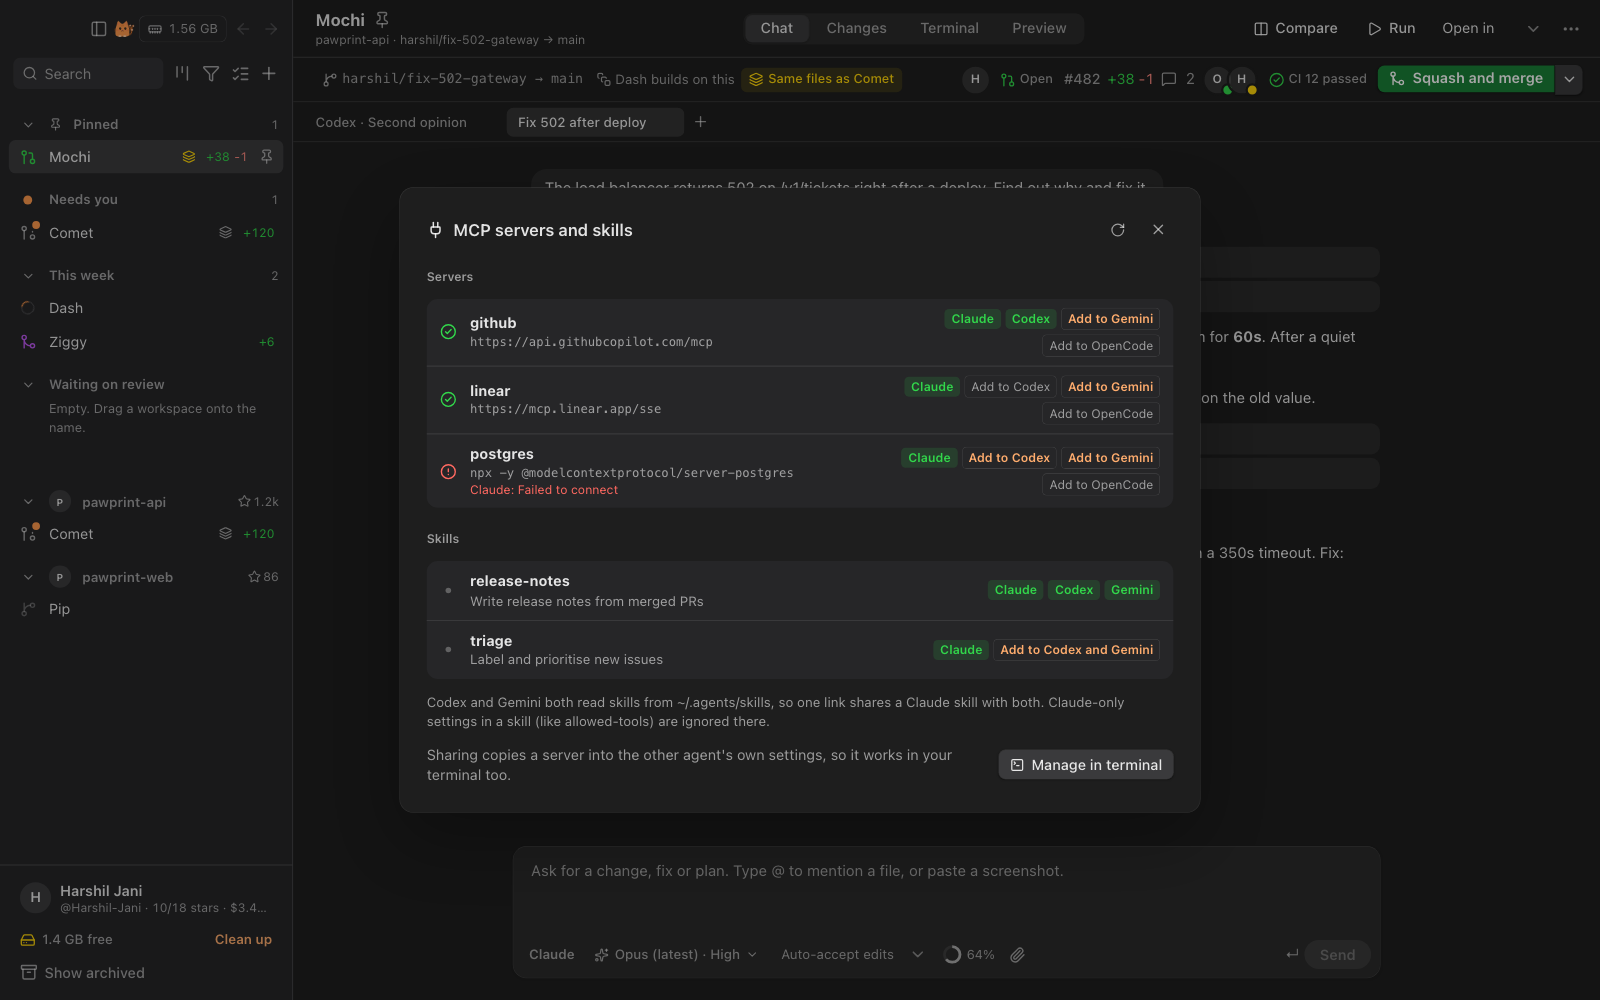
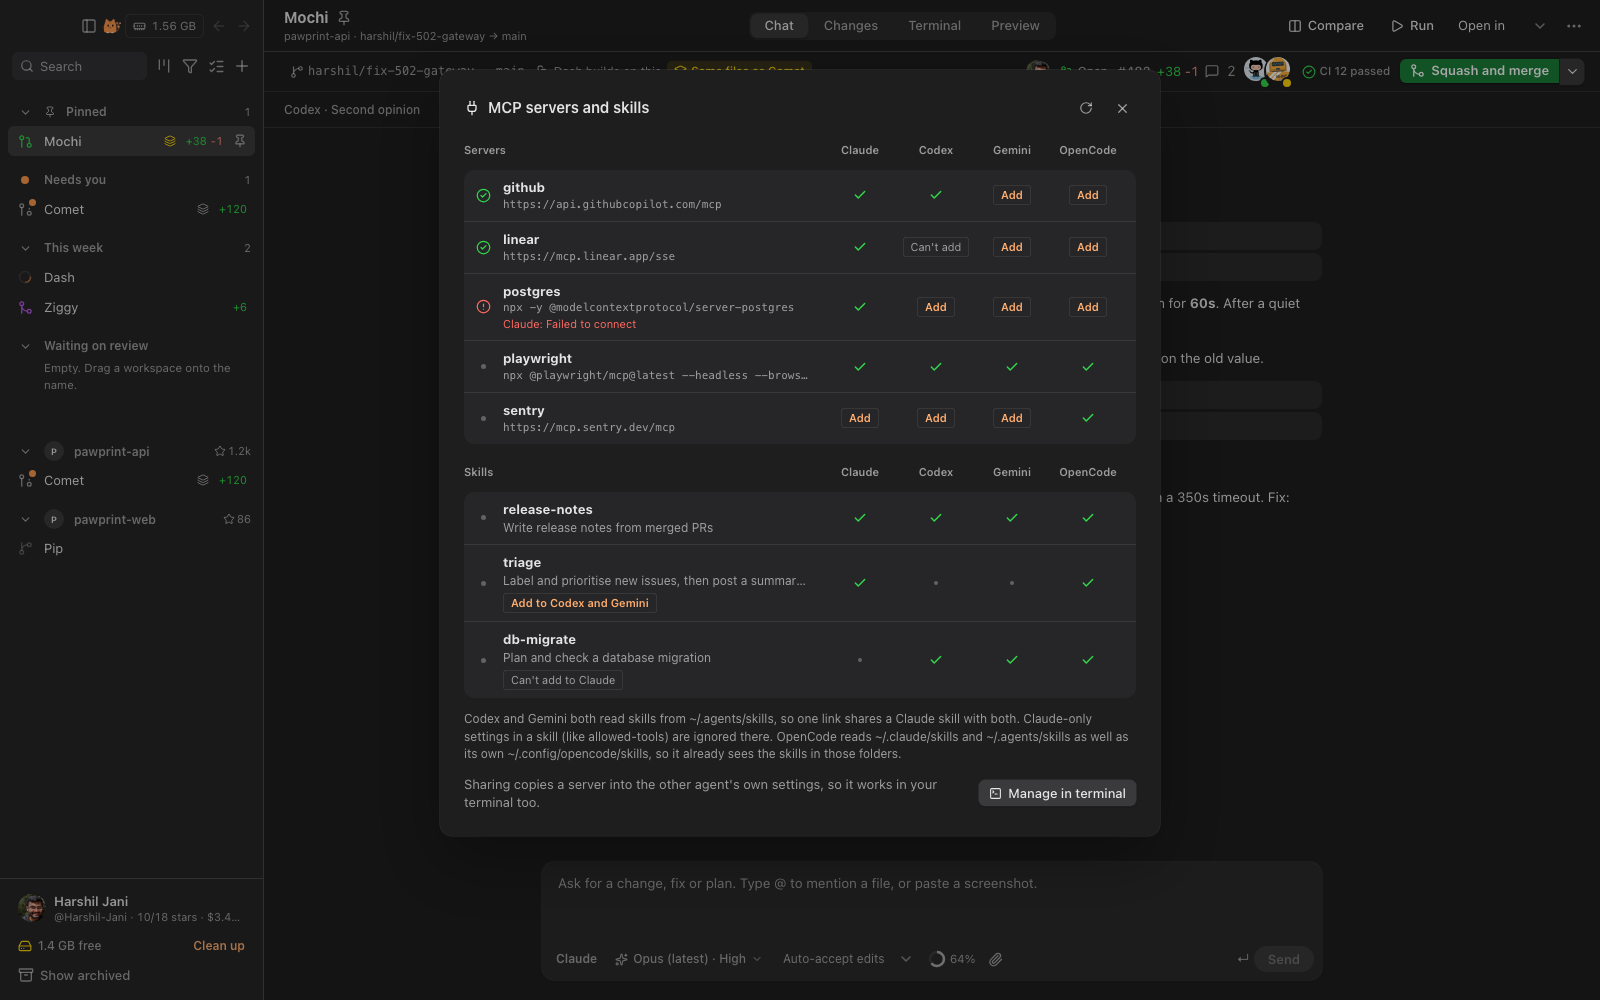
Changelog and README screenshot: MCP sheet agent columns

diff --git a/CHANGELOG.md b/CHANGELOG.md
@@ -15,6 +15,12 @@ to the [release page](https://github.com/Harshil-Jani/nekotrail/releases).
 - MCP servers share with OpenCode too: add Claude, Codex or Gemini servers to OpenCode, and copy OpenCode's servers to them, with variables converted or refused with a reason. A new settings file is previewed in full before it is written.
 - Share Claude skills with Codex and Gemini in one click. It's a link in `~/.agents/skills`, so the skill lives in one place and edits show up for every agent. OpenCode already reads `~/.claude/skills` and `~/.agents/skills`, and the sheet says so.
 
+**Design ship-gate fixes**
+- The MCP sheet shows one column per agent (Claude, Codex, Gemini, OpenCode) with a tick where an agent already has a server or skill and an Add button where it doesn't, so rows line up and never wrap.
+- Servers an agent can't take say "Can't add" right in the row; open it to see why.
+- If a settings file changes between the preview and Add, the sheet shows the preview again from the file as it is now, with the reason next to the button.
+- A settings file nekotrail can't read gets a Try again button, and the sheet stays anchored at the top as you move between the list and a preview.
+
 ## 0.12.0 (2026-11-06)
 
 **OpenCode, and any ACP agent**
